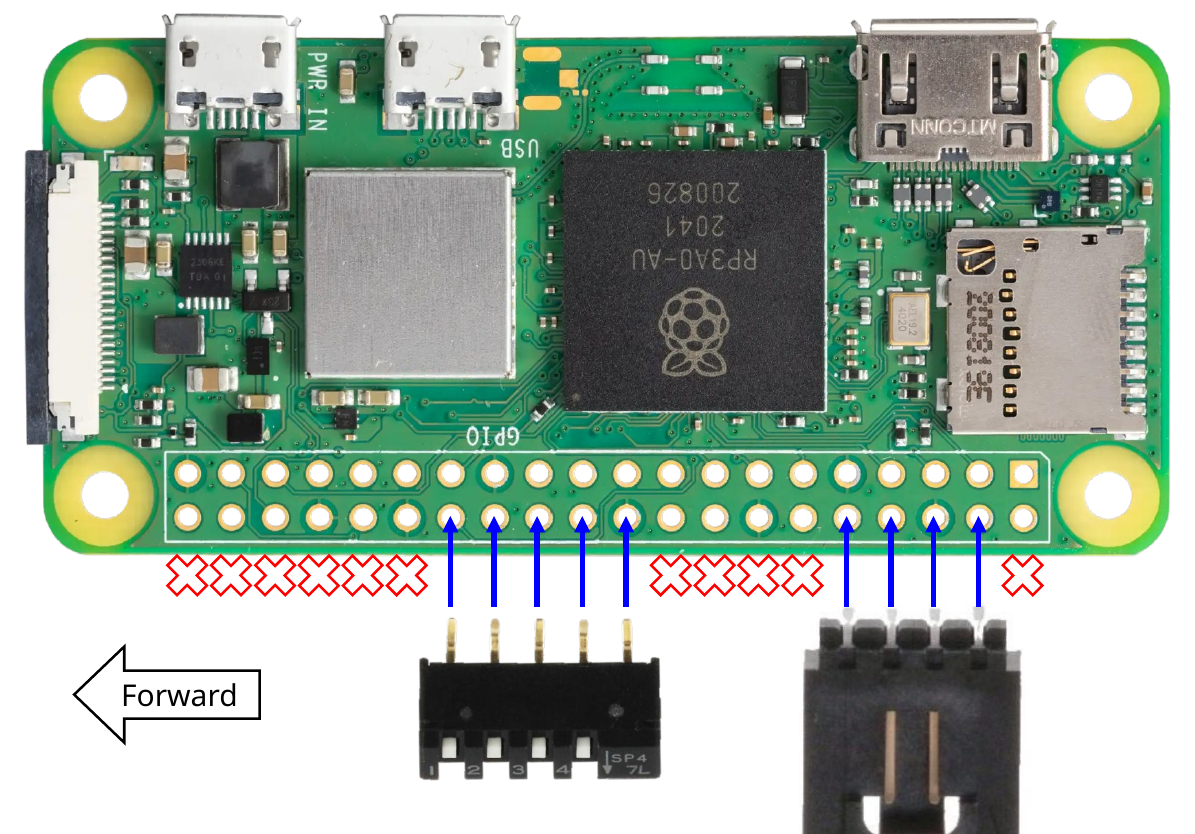
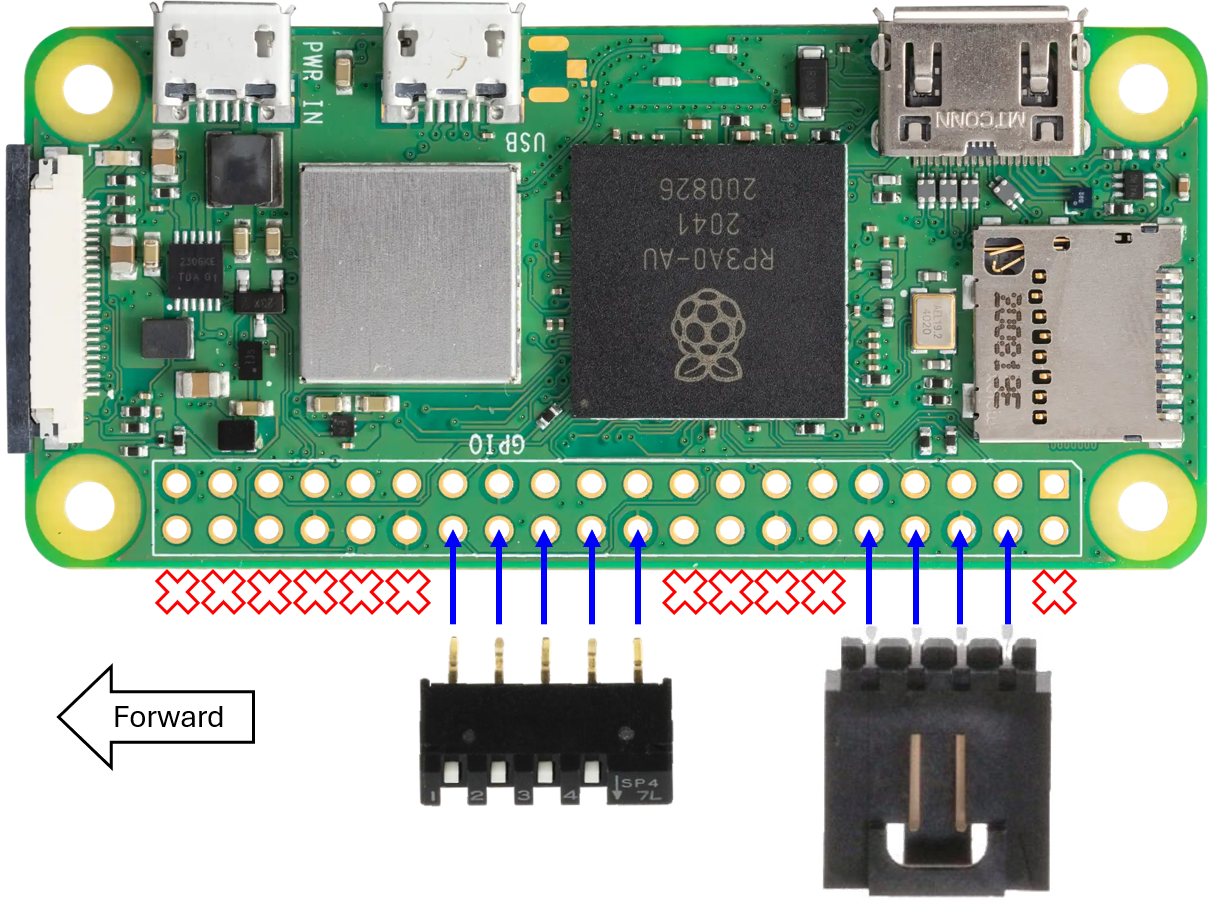
graphics cleanup

diff --git a/assets/js/common.js b/assets/js/common.js
@@ -444,11 +444,12 @@ const GLOSSARY = {
   "lipoTester": {
     "title": "LiPo battery tester",
     "subtitle": "Reads total battery voltage",
+    "img": "assets/img/lipo-tester.webp",
     "placeholder": "LiPo battery tester",
     "aliases": [
       "LiPo battery tester",
       "battery tester"
-    ]
+    ],
   //},
   //"solderingiron": {
   //  "title": "Soldering iron",
@@ -491,6 +492,27 @@ const GLOSSARY = {
   //  "aliases": [
   //    "eye protection"
   //  ]
+  "gpscable": {
+    "title": "GPS/compass cable",
+    "subtitle": "6-wire GPS/compass cable",
+    "img": "assets/img/gps-cable.png",
+    "placeholder": "GPS/compass cable",
+    "aliases": [
+      "GPS/compass cable",
+      "6-wire GPS cable",
+      "GPS cable"
+    ],
+    "damper": {
+      "title": "Vibration damper",
+      "subtitle": "Vibration dampening for flight Controller and ESC",
+      "img": "assets/img/damper.png",
+      "aliases": [
+        "vibration damper",
+        "damper",
+        "rubber damper"
+      ]
+    }
+  }
   }
 };
 
@@ -648,7 +670,7 @@ function renderSiteNav() {
   if (!nav) return;
   const filename = currentFilename();
   const currentTask = getCurrentTaskMeta();
-  const progressReset = '<button class="buttonish secondary" type="button" data-reset-progress>Reset local progress</button>';
+  const progressReset = '<button class="buttonish secondary" type="button" data-reset-progress>Reset progress</button>';
   const links = [];
 
   links.push(`<a href="index.html"${filename === "index.html" ? ' aria-current="page" class="nav-current"' : ""}>Home</a>`);
